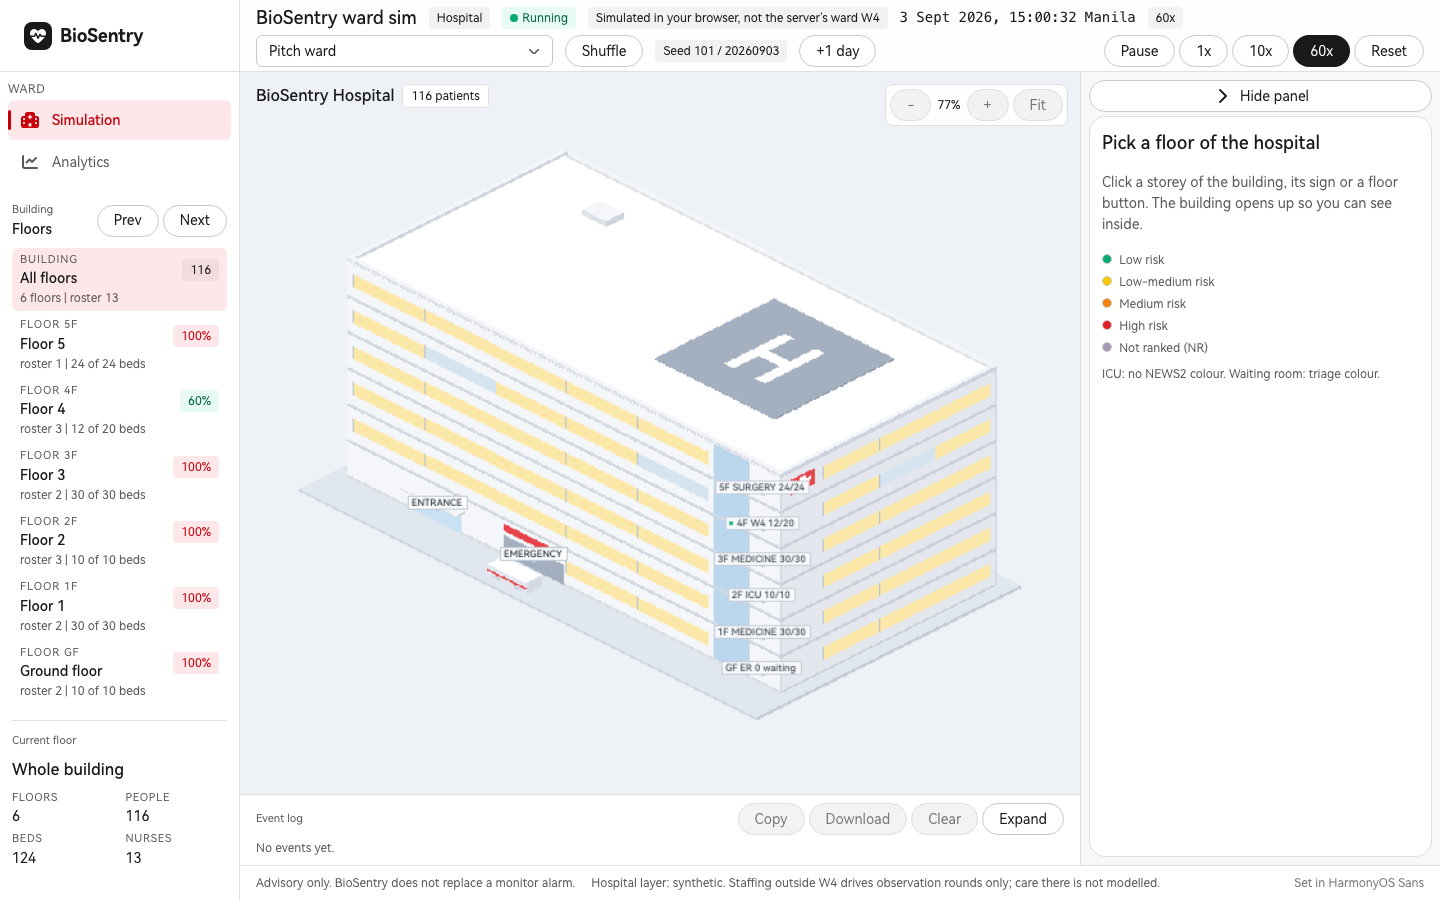
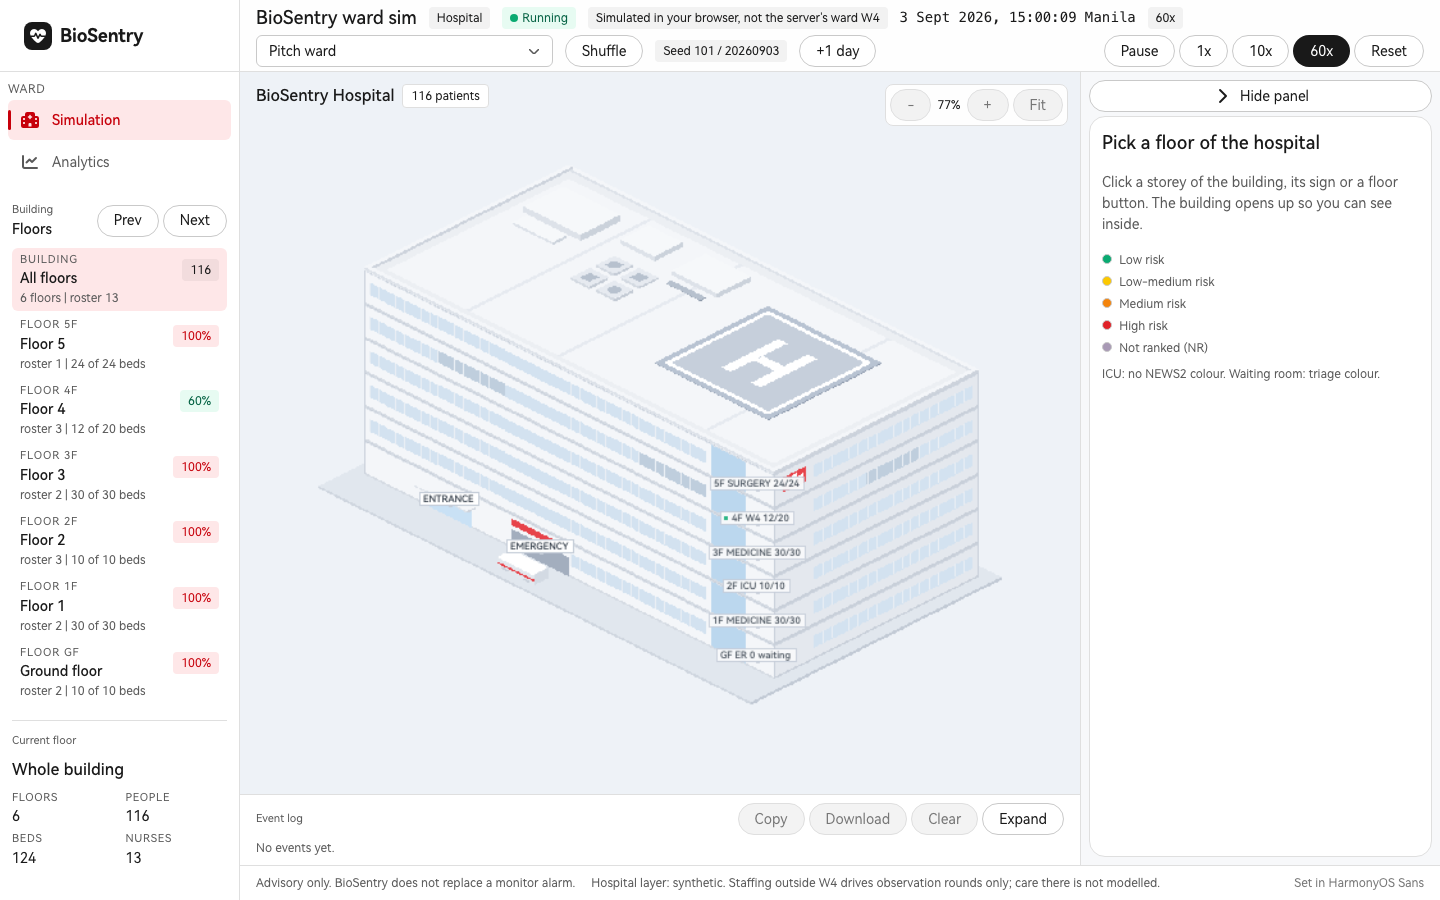
style: hospital roof with plant rooms, rooftop units and a marked helipad; calm glazed window strip; room names drawn over furniture with a halo; refreshed screenshots

diff --git a/src/render/facade.ts b/src/render/facade.ts
@@ -23,10 +23,9 @@ const WALLS: Faces = ["#FFFFFF", "#F4F6F9", "#E4E8EE"];
 const EDGE = ["#D5DBE3", "#C8CFD9"]; // the slim line at each floor edge, south and east
 const PAVE: Faces = ["#E1E7EE", "#CFD6DF", "#C2CAD5"];
 const PARAPET: Faces = ["#F4F6F9", "#DDE2E9", "#CDD3DC"];
-const PAD: Faces = ["#A4AFC0", "#8D99AC", "#7E8A9E"];
-const LIT = "#FBE8A9"; // a ribbon segment with people behind it; low contrast with DIM on purpose
-const DIM = "#D6E4F1";
-const MULLION = "#BAC4D0";
+const LIT = "#D3E2F0"; // glass with people behind it: a touch lighter and bluer than DIM, no more // a ribbon segment with people behind it; low contrast with DIM on purpose
+const DIM = "#BFCEDD";
+const MULLION = "#E9EEF4";
 const CORE = "#BBD7EE"; // the glass stair core
 export const PLATE = { x0: -1, y0: -1, x1: MAP_W + 1, y1: MAP_H + 3 };
 const DOORS: [number, number][] = [[5.5, 9.5], [13, 18]]; // GF's south face: the entrance, the emergency bay
@@ -107,10 +106,10 @@ function paintStorey(ctx: Ctx, floor: number, roof: boolean, lit: number) {
   segs.forEach((s, k) => {
     if (s.face === "south") {
       leftFaceBand(ctx, s.from, MAP_H, s.to - s.from, RIBBON.from, RIBBON.to, on.has(k) ? LIT : DIM);
-      leftFaceBand(ctx, s.from, MAP_H, 0.08, RIBBON.from, RIBBON.to, MULLION);
+      for (let m = s.from; m < s.to; m += 0.75) leftFaceBand(ctx, m, MAP_H, 0.07, RIBBON.from, RIBBON.to, MULLION); // thin mullions
     } else {
       rightFaceBand(ctx, MAP_W, s.from, s.to - s.from, RIBBON.from, RIBBON.to, on.has(k) ? LIT : DIM);
-      rightFaceBand(ctx, MAP_W, s.to - 0.08, 0.08, RIBBON.from, RIBBON.to, MULLION);
+      for (let m = s.from; m < s.to; m += 0.75) rightFaceBand(ctx, MAP_W, m, 0.07, RIBBON.from, RIBBON.to, MULLION);
     }
   });
   leftFaceBand(ctx, CORE_AT[0], MAP_H, CORE_AT[1] - CORE_AT[0], 2, STOREY, CORE); // the stair core, storey to storey
@@ -120,6 +119,8 @@ function paintStorey(ctx: Ctx, floor: number, roof: boolean, lit: number) {
     leftFaceBand(ctx, DOORS[1][0], MAP_H, DOORS[1][1] - DOORS[1][0], 0, 20, "#A3AEBE"); // the emergency bay and its red band
     leftFaceBand(ctx, DOORS[1][0], MAP_H, DOORS[1][1] - DOORS[1][0], 24, 31, "#E7434A");
   }
+  leftFaceBand(ctx, 0, MAP_H, MAP_W, STOREY - 2, STOREY, "#DCE2EA"); // the slab edge above each storey keeps the floors legible
+  rightFaceBand(ctx, MAP_W, 0, MAP_H, STOREY - 2, STOREY, "#CED5DF");
   inkEdges(ctx, STOREY);
   if (roof) {
     rightFaceBand(ctx, MAP_W, 15.2, 2, 12, 28, "#E7434A"); // the hospital cross, near the top
@@ -129,16 +130,31 @@ function paintStorey(ctx: Ctx, floor: number, roof: boolean, lit: number) {
   }
 }
 
-/** The roof: a low parapet, the helipad and one small unit. */
+/** The roof: tonal paving, a parapet, two plant rooms, rooftop units, a stair head and a helipad with a clear H. */
 function paintRoof(ctx: Ctx) {
   const z = STOREY;
-  box(ctx, 0, 0, MAP_W, MAP_H, 0, WALLS, z);
+  const GREY: Faces = ["#E6EAF0", "#D3D9E1", "#C4CBD5"];
+  const PLANT: Faces = ["#F6F8FA", "#DDE2E9", "#CBD2DB"];
+  const FAN: Faces = ["#B7C1CE", "#9EA9B8", "#8D99A9"];
+  box(ctx, 0, 0, MAP_W, MAP_H, 0, ["#ECEFF3", "#ECEFF3", "#ECEFF3"], z);
+  box(ctx, 1, 1, MAP_W - 2, MAP_H - 2, 0, ["#F4F6F9", "#F4F6F9", "#F4F6F9"], z); // a paler inner deck
+  for (const x of [8, 16, 29]) box(ctx, x, 1, 0.25, MAP_H - 2, 0, GREY, z); // expansion joints
   box(ctx, 0, 0, MAP_W, 0.3, 3, PARAPET, z);
   box(ctx, 0, 0, 0.3, MAP_H, 3, PARAPET, z);
-  box(ctx, 6, 3, 2, 1.5, 6, PARAPET, z); // the one unit
-  box(ctx, 21, 3.5, 10, 10, 1, PAD, z); // the helipad
-  for (const x of [24.3, 26.9]) box(ctx, x, 6, 0.8, 5, 0, [CREAM, CREAM, CREAM], z + 1);
-  box(ctx, 25.1, 8.1, 1.8, 0.8, 0, [CREAM, CREAM, CREAM], z + 1);
+  box(ctx, 2, 2.5, 5, 3.5, 7, PLANT, z); // plant room
+  box(ctx, 2.6, 6.3, 3.5, 1.2, 3, PLANT, z);
+  box(ctx, 9, 2, 3, 2.5, 5, PLANT, z); // a second, lower one
+  for (const [x, y] of [[10, 6], [12.2, 6], [10, 8.2], [12.2, 8.2]]) { // rooftop units with a fan each
+    box(ctx, x, y, 1.6, 1.6, 3, GREY, z);
+    box(ctx, x + 0.4, y + 0.4, 0.8, 0.8, 0, FAN, z + 3);
+  }
+  box(ctx, 14, 2, 4, 3, 5, PLANT, z); // lift and stair head
+  box(ctx, 14.5, 5.5, 3, 0.5, 1, FAN, z);
+  box(ctx, 21, 3.5, 10, 10, 1, ["#B8C3D2", "#9DA9BA", "#8E9AAD"], z); // the helipad
+  box(ctx, 21.4, 3.9, 9.2, 9.2, 0, ["#C6CFDB", "#C6CFDB", "#C6CFDB"], z + 1);
+  for (const [x, y, w, d] of [[21.4, 3.9, 9.2, 0.35], [21.4, 12.75, 9.2, 0.35], [21.4, 3.9, 0.35, 9.2], [30.25, 3.9, 0.35, 9.2]]) box(ctx, x, y, w, d, 0, [CREAM, CREAM, CREAM], z + 1); // the ring
+  for (const x of [24.4, 27]) box(ctx, x, 6, 0.8, 5, 0, [CREAM, CREAM, CREAM], z + 1); // the H
+  box(ctx, 25.2, 8.1, 1.8, 0.8, 0, [CREAM, CREAM, CREAM], z + 1);
   box(ctx, 0, MAP_H - 0.3, MAP_W, 0.3, 3, PARAPET, z);
   box(ctx, MAP_W - 0.3, 0, 0.3, MAP_H, 3, PARAPET, z);
 }

diff --git a/src/render/draw.ts b/src/render/draw.ts
@@ -43,7 +43,7 @@ const SELECT = "#0A59F7"; // hw-ui blue: the selection outline
 const HOVER = "#9DBDFC";
 const SOFT: [string, string, string] = ["#FFFFFF", "#E3E8EE", "#D3DAE3"]; // white fittings
 const FONT = '500 7.5px "HarmonyOS Sans", system-ui, sans-serif';
-const FONT_SMALL = '500 6.5px "HarmonyOS Sans", system-ui, sans-serif';
+const FONT_SMALL = '600 7px "HarmonyOS Sans", system-ui, sans-serif';
 
 export const CHIP_COLOURS = {
   idle: "#A6ADB8",
@@ -454,6 +454,10 @@ function label(ctx: Ctx, text: string, x: number, y: number, colour: string, fon
   ctx.fillStyle = colour;
   ctx.textAlign = "center";
   ctx.textBaseline = "middle";
+  ctx.lineJoin = "round";
+  ctx.lineWidth = 2.5; // a soft white halo keeps the name readable over furniture
+  ctx.strokeStyle = "rgba(255,255,255,.85)";
+  ctx.strokeText(text, x, y);
   ctx.fillText(text, x, y);
 }
 
@@ -462,7 +466,7 @@ function label(ctx: Ctx, text: string, x: number, y: number, colour: string, fon
 function floorText(ctx: Ctx, spec: FloorSpec) {
   for (const room of spec.rooms) {
     const [x, y] = iso((room.x0 + room.x1 + 1) / 2, (room.y0 + room.y1 + 1) / 2);
-    label(ctx, room.label, x, y, "rgba(55,68,88,.62)");
+    label(ctx, room.label, x, y, "rgba(40,52,72,.8)");
   }
   const [wx, wy] = iso(3, 8.6);
   label(ctx, spec.name, wx, wy, "rgba(55,68,88,.75)", FONT);
@@ -546,7 +550,6 @@ export function createFloor(spec: FloorSpec) {
     paint(ctx: Ctx, scene: Scene, selected: string | null, hovered: string | null, now: number, figures: Figure[] = []) {
       ctx.imageSmoothingEnabled = false;
       ctx.drawImage(floor, 0, 0);
-      floorText(ctx, spec);
       const beds = new Map(scene.beds.map((b) => [b.bed.label, b]));
       const actors: { depth: number; draw: () => void }[] = [
         ...scene.spots.map((p) => ({ depth: depthOf(p.tile), draw: () => drawSpot(ctx, p.tile, p.cell, p.unit === "MORGUE") })),
@@ -591,6 +594,7 @@ export function createFloor(spec: FloorSpec) {
         ctx.drawImage(b.cell === null ? item.empty! : b.cell.dead ? item.body! : item.image, item.dx, item.dy);
       }
       while (next < actors.length) actors[next++].draw();
+      floorText(ctx, spec); // names sit over the furniture, not under it
 
       for (const d of scene.drawers) {
         if (!d.full) continue;
@@ -862,7 +866,6 @@ export function createW4() {
       ctx.imageSmoothingEnabled = false;
       ctx.drawImage(floor, 0, 0);
 
-      floorText(ctx, W4);
       const actors = s.staff
         .map((m) => ({ id: m.id, depth: m.x + m.y + 0.01 }))
         .sort((a, b) => a.depth - b.depth);
@@ -881,6 +884,7 @@ export function createW4() {
         next += 1;
       }
 
+      floorText(ctx, W4);
       MACHINES.forEach(([id, tile, name, lift], i) => {
         const [x, y] = iso(tile[0] + 0.5, tile[1] + 0.5);
         if (i < 4) {
